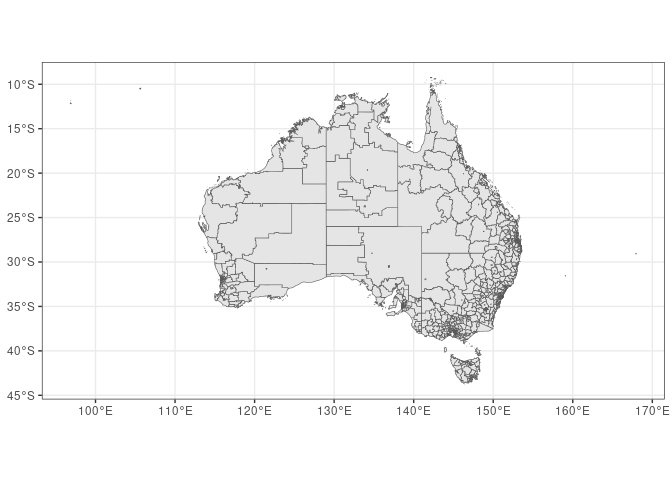
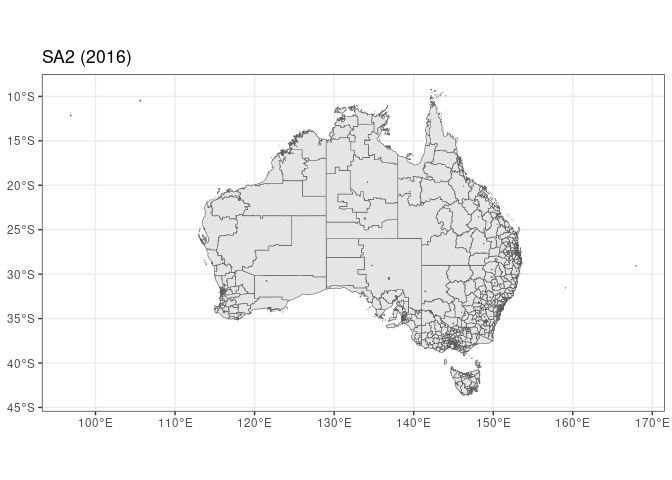
update source of NSHLHN to be from absmapsdata and add example to README (plus small other updates to README)

diff --git a/README.md b/README.md
@@ -11,9 +11,9 @@ available and include helpful functions for analysis of spatial data.
 
 ## Notes on other packages
 
-Shape files are available within
-[`{absmapsdata}`](https://github.com/wfmackey/absmapsdata) and these can
-be (lazy) loaded using
+Most shape files are available within
+[`{absmapsdata}`](https://github.com/wfmackey/absmapsdata) and can be
+(lazily) loaded using
 [`{strayr}`](https://github.com/runapp-aus/strayr).
 
 ## Installation
@@ -22,8 +22,8 @@ You can install the development version of hpa.spatial from
 [GitHub](https://github.com/) with:
 
 ``` r
-# install.packages("devtools")
-devtools::install_github("healthpolicyanalysis/hpa.spatial")
+# install.packages("remotes")
+remotes::install_github("healthpolicyanalysis/hpa.spatial")
 ```
 
 ``` r
@@ -77,10 +77,44 @@ head(sa2_2016)
 sa2_2016 |>
   ggplot() +
   geom_sf() +
-  theme_bw()
+  theme_bw() +
+  ggtitle("SA2 (2016)")
 ```
 
 <img src="man/figures/README-unnamed-chunk-3-1.png" width="100%" />
+
+``` r
+
+lga_2016 <- get_polygon(area = "lga", year = 2016)
+head(lga_2016)
+#> Simple feature collection with 6 features and 7 fields
+#> Geometry type: MULTIPOLYGON
+#> Dimension:     XY
+#> Bounding box:  xmin: 142.4523 ymin: -37.50503 xmax: 153.6076 ymax: -28.7043
+#> Geodetic CRS:  WGS 84
+#>   lga_code_2016         lga_name_2016 state_code_2016 state_name_2016
+#> 1         10050            Albury (C)               1 New South Wales
+#> 2         10130 Armidale Regional (A)               1 New South Wales
+#> 3         10250           Ballina (A)               1 New South Wales
+#> 4         10300         Balranald (A)               1 New South Wales
+#> 5         10470 Bathurst Regional (A)               1 New South Wales
+#> 6         10550       Bega Valley (A)               1 New South Wales
+#>   areasqkm_2016 cent_long  cent_lat                       geometry
+#> 1      305.9459  146.9704 -36.02660 MULTIPOLYGON (((147.0967 -3...
+#> 2     8620.6990  151.8291 -30.33634 MULTIPOLYGON (((150.9923 -3...
+#> 3      484.9389  153.4861 -28.85288 MULTIPOLYGON (((153.4496 -2...
+#> 4    21690.6753  143.6116 -33.95034 MULTIPOLYGON (((143.5525 -3...
+#> 5     3817.8646  149.5256 -33.43010 MULTIPOLYGON (((149.8696 -3...
+#> 6     6278.8811  149.7176 -36.82594 MULTIPOLYGON (((149.9763 -3...
+
+lga_2016 |>
+  ggplot() +
+  geom_sf() +
+  theme_bw() +
+  ggtitle("LGA (2016)")
+```
+
+<img src="man/figures/README-unnamed-chunk-3-2.png" width="100%" />
 
 This is used in the same way as `strayr::read_absmap()` except it also
 includes a `simplify_keep` argument for simplifying the polygon.
@@ -119,6 +153,7 @@ that LHN (“HHS” in QLD and “LHD” in NSW).
 
 ``` r
 qld_hhs <- get_polygon(area = "HHS")
+#> The data for The Hospital and Health Service boundaries (QLD) are from here: <https://qldspatial.information.qld.gov.au/catalogue/custom/detail.page?fid={A4661F6D-0013-46EE-A446-A45F01A64D46}>
 head(qld_hhs)
 #> Simple feature collection with 6 features and 3 fields
 #> Geometry type: MULTIPOLYGON
@@ -142,6 +177,32 @@ qld_hhs |>
 ```
 
 <img src="man/figures/README-unnamed-chunk-6-1.png" width="100%" />
+
+``` r
+
+nsw_lhd <- get_polygon(name = "NSWLHN")
+#> The data for The Local Health Districts boundaries (NSW) are from here: <https://github.com/wfmackey/absmapsdata/raw/master/data/nsw_lhd2023.rda>
+head(nsw_lhd)
+#> Simple feature collection with 6 features and 1 field
+#> Geometry type: MULTIPOLYGON
+#> Dimension:     XY
+#> Bounding box:  xmin: 149.7519 ymin: -34.76958 xmax: 159.1092 ymax: -31.4868
+#> Geodetic CRS:  WGS 84
+#>            nsw_lhd_name                       geometry
+#> 1 Nepean Blue Mountains MULTIPOLYGON (((151.1358 -3...
+#> 2       Northern Sydney MULTIPOLYGON (((151.343 -33...
+#> 3  South Eastern Sydney MULTIPOLYGON (((151.2878 -3...
+#> 4  South Western Sydney MULTIPOLYGON (((151.0755 -3...
+#> 5                Sydney MULTIPOLYGON (((151.2168 -3...
+#> 6        Western Sydney MULTIPOLYGON (((151.0843 -3...
+
+nsw_lhd |>
+  ggplot() +
+  geom_sf() +
+  theme_bw()
+```
+
+<img src="man/figures/README-unnamed-chunk-6-2.png" width="100%" />
 
 ## Mapping data between ASGS editions
 
@@ -184,7 +245,7 @@ map_data_with_correspondence(
   to_year = 2016,
   value_type = "aggs"
 )
-#> Reading file found in /tmp/RtmpgcI4Nq
+#> Reading file found in /tmp/RtmpKQgabH
 #> # A tibble: 5 × 2
 #>   SA2_MAINCODE_2016 values
 #>   <chr>              <dbl>
@@ -227,7 +288,7 @@ sa3_counts <- map_data_with_correspondence(
   value_type = "aggs"
 ) |> 
   rename(patient_counts = values)
-#> Reading file found in /tmp/RtmpgcI4Nq
+#> Reading file found in /tmp/RtmpKQgabH
 
 sa3_2016 <- get_polygon("sa32016") |> 
   left_join(sa3_counts)
